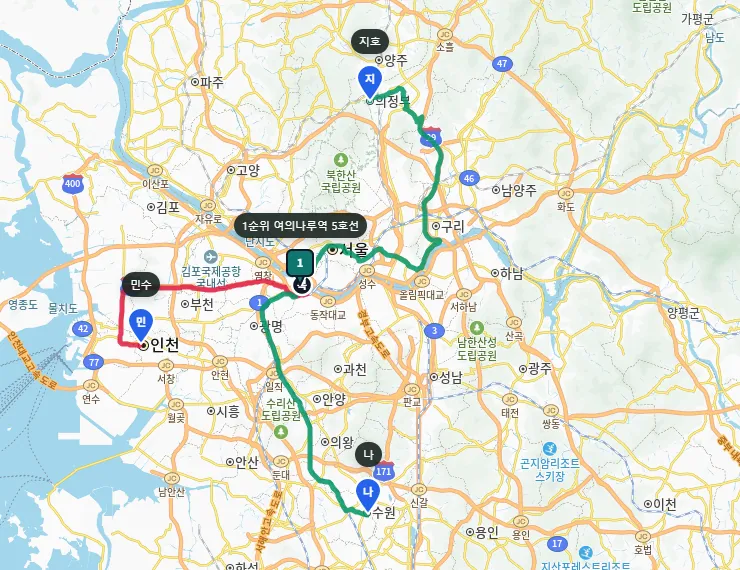
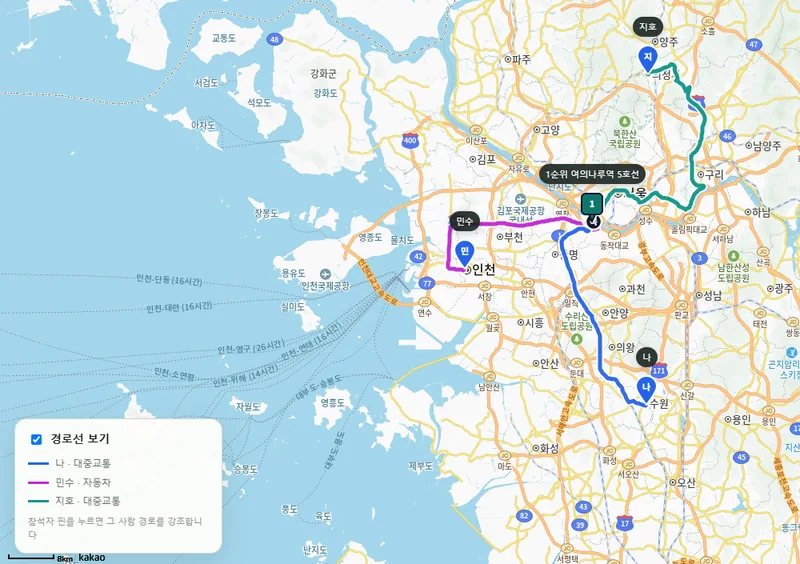
feat(map): 경로선을 사람마다 다른 색으로, 흰 테두리
경로선 색이 이동수단 세 가지뿐이라 대중교통으로 오는 사람이 여럿이면 모두 같은 초록이었고,
카카오 바탕의 도로(주황·빨강)·공원(초록)과도 섞였다 (09-28).

- 색은 사람마다(슬롯 참석자 순서로 고정, 바탕 도로·공원·물과 겹치지 않는 8색), 이동수단은 선 모양(도보만 점선)
- 선 아래 흰 테두리를 깔아 지도 위에서 묻히지 않게
- 범례를 "이름 · 이동수단" 으로, 결과 표의 점 색도 그 사람 선 색과 같게
- 핀 색은 그대로(내 핀·위치 확인 필요 같은 상태 표시). 집결지 무리 구간은 짙은 회색 굵은 점선
- 첫 화면 지도 캡처를 새 색·범례 포함으로 다시 찍음 (800x564, 82KB), 캡션 갱신

diff --git a/frontend/components/RouteLines.tsx b/frontend/components/RouteLines.tsx
@@ -1,44 +1,72 @@
 "use client";
 
-// 참석자별 경로선 (per_participant[].polyline). 색은 이동수단 세 가지뿐이고 사람마다 바꾸지 않는다.
+// 참석자별 경로선 (per_participant[].polyline).
+// 색은 사람마다, 모양은 이동수단마다 다르다 (09-28). 전에는 이동수단 세 가지 색뿐이라 대중교통으로 오는 사람이
+// 여럿이면 모두 같은 초록이었고, 카카오 바탕의 도로(주황·빨강)·공원(초록)과도 섞였다.
 
 import { useEffect } from "react";
 import type { Kakao } from "@/lib/kakao";
 import type { ParticipantResult, RendezvousLeg, Transport } from "@/types/agent";
 
+// 이동수단은 선 모양으로 가른다. color 는 사람 색을 모를 때(집결지 무리 구간 등)만 쓴다.
 // layer: 겹칠 때 위에 올라오는 순서. 자동차 선은 길고 굵어 대중교통·도보 선을 덮기 쉽다
 export const ROUTE_STYLES: Record<Transport, { color: string; label: string; style: string; layer: number }> = {
-  car: { color: "#e11d48", label: "자동차", style: "solid", layer: 1 },
-  transit: { color: "#059669", label: "대중교통", style: "solid", layer: 2 },
-  walk: { color: "#7c3aed", label: "도보", style: "shortdash", layer: 3 },
+  car: { color: "#334155", label: "자동차", style: "solid", layer: 1 },
+  transit: { color: "#334155", label: "대중교통", style: "solid", layer: 2 },
+  walk: { color: "#334155", label: "도보", style: "shortdash", layer: 3 },
 };
+
+// 사람 색. 카카오 바탕의 도로(주황·노랑)·공원(초록)·물(하늘)과 겹치지 않는 색만 쓴다. 앞 셋끼리 가장 멀다
+export const PERSON_COLORS = ["#2563eb", "#c026d3", "#0d9488", "#dc2626", "#7c3aed", "#92400e", "#db2777", "#1e3a8a"];
+
+// 참석자 순서(슬롯 순서)로 색을 고정한다. 후보를 바꿔도 같은 사람은 같은 색이다
+export function personColor(names: string[], name: string): string {
+  const index = names.indexOf(name);
+  return PERSON_COLORS[(index < 0 ? 0 : index) % PERSON_COLORS.length];
+}
 
 interface Props {
   kakao: Kakao;
   map: Kakao;
   rows: ParticipantResult[];
   highlighted: string | null;
+  names?: string[]; // 참석자 순서. 사람 색을 정한다
   // 두 단계 집결의 집결지 → 후보 구간. 여럿이 함께 가는 길이라 굵은 점선으로 구분한다 (09-27)
   legs?: RendezvousLeg[];
 }
 
 export const GROUP_LEG_STYLE = { style: "dash", weight: 7, label: "집결지에서 함께 이동" };
 
-export default function RouteLines({ kakao, map, rows, highlighted, legs = [] }: Props) {
+export default function RouteLines({ kakao, map, rows, highlighted, legs = [], names = [] }: Props) {
   useEffect(() => {
     const lines = rows
       .filter((r) => r.polyline.length > 1)
-      .map((r) => {
+      .flatMap((r) => {
         const s = ROUTE_STYLES[r.transport];
-        return new kakao.maps.Polyline({
+        const path = r.polyline.map(([lng, lat]) => new kakao.maps.LatLng(lat, lng));
+        const on = highlighted === r.name;
+        const dim = Boolean(highlighted) && !on;
+        const weight = on ? 7 : 5;
+        // 흰 테두리를 먼저 깐다. 지도 위 도로색에 묻히지 않게 한다
+        const casing = new kakao.maps.Polyline({
           map,
-          path: r.polyline.map(([lng, lat]) => new kakao.maps.LatLng(lat, lng)),
-          strokeWeight: highlighted === r.name ? 7 : 5,
-          strokeColor: s.color,
-          strokeOpacity: highlighted && highlighted !== r.name ? 0.35 : 0.85,
-          strokeStyle: s.style,
-          zIndex: highlighted === r.name ? 10 : s.layer,
+          path,
+          strokeWeight: weight + 4,
+          strokeColor: "#ffffff",
+          strokeOpacity: dim ? 0.3 : 0.9,
+          strokeStyle: "solid",
+          zIndex: on ? 9 : s.layer,
         });
+        const line = new kakao.maps.Polyline({
+          map,
+          path,
+          strokeWeight: weight,
+          strokeColor: personColor(names, r.name),
+          strokeOpacity: dim ? 0.35 : 0.95,
+          strokeStyle: s.style,
+          zIndex: on ? 10 : s.layer,
+        });
+        return [casing, line];
       });
     const groupLines = legs
       .filter((leg) => leg.polyline.length > 1)
@@ -55,7 +83,7 @@ export default function RouteLines({ kakao, map, rows, highlighted, legs = [] }:
           }),
       );
     return () => [...lines, ...groupLines].forEach((line) => line.setMap(null));
-  }, [kakao, map, rows, highlighted, legs]);
+  }, [kakao, map, rows, highlighted, legs, names]);
 
   return null;
 }

diff --git a/frontend/components/MapView.tsx b/frontend/components/MapView.tsx
@@ -7,7 +7,7 @@ import { loadKakao, nameLabel, pinImage, type Kakao, type PinStyle } from "@/lib
 import type { AgentResponse, CandidateKind, ParticipantResult } from "@/types/agent";
 import ParticipantPins, { PIN_COLORS, type ParticipantPin, type Viewer } from "./ParticipantPins";
 import PinPicker from "./PinPicker";
-import RouteLines, { GROUP_LEG_STYLE, ROUTE_STYLES } from "./RouteLines";
+import RouteLines, { GROUP_LEG_STYLE, ROUTE_STYLES, personColor } from "./RouteLines";
 
 const DEFAULT_CENTER = { lat: 36.35, lng: 127.8 }; // 국토 중앙쯤. 핀이 생기면 bounds 로 옮긴다
 const ALL_ROUTES_MAX = 4;
@@ -101,6 +101,12 @@ export default function MapView({ response, participantPins, viewer, selectedRan
     if (showRoutes) return drawable;
     return selected ? drawable.filter((r) => r.name === selected) : [];
   }, [rankRows, selected, showRoutes]);
+
+  // 사람 색은 슬롯의 참석자 순서로 정한다. 지도·범례·결과 표가 같은 순서를 쓴다
+  const participantNames = useMemo(
+    () => (response?.slots?.participants ?? []).map((p) => p.name),
+    [response],
+  );
 
   // 두 단계 집결의 무리 구간. 선택한 후보 것만, 경로선을 켰을 때만 그린다
   const groupLegs = useMemo(() => {
@@ -259,7 +265,14 @@ export default function MapView({ response, participantPins, viewer, selectedRan
             onSelect={onSelectParticipant}
             onMove={onMove}
           />
-          <RouteLines kakao={kakao} map={map} rows={visibleRows} highlighted={selected} legs={groupLegs} />
+          <RouteLines
+            kakao={kakao}
+            map={map}
+            rows={visibleRows}
+            highlighted={selected}
+            legs={groupLegs}
+            names={participantNames}
+          />
           <PinPicker
             kakao={kakao}
             map={map}
@@ -284,15 +297,21 @@ export default function MapView({ response, participantPins, viewer, selectedRan
             경로선 보기
           </label>
           <ul className="legend">
-            {Object.values(ROUTE_STYLES).map((s) => (
-              <li key={s.label}>
-                <span
-                  className="legend-line"
-                  style={{ borderTopColor: s.color, borderTopStyle: s.style === "solid" ? "solid" : "dashed" }}
-                />
-                {s.label}
-              </li>
-            ))}
+            {/* 사람마다 색, 이동수단은 선 모양(도보만 점선) */}
+            {rankRows
+              .filter((r) => !r.via_pickup)
+              .map((r) => (
+                <li key={r.name}>
+                  <span
+                    className="legend-line"
+                    style={{
+                      borderTopColor: personColor(participantNames, r.name),
+                      borderTopStyle: ROUTE_STYLES[r.transport].style === "solid" ? "solid" : "dashed",
+                    }}
+                  />
+                  {r.name} · {ROUTE_STYLES[r.transport].label}
+                </li>
+              ))}
             {groupLegs.length > 0 && (
               <li>
                 <span className="legend-line legend-line-group" style={{ borderTopStyle: "dashed" }} />

diff --git a/frontend/app/page.tsx b/frontend/app/page.tsx
@@ -80,14 +80,13 @@ function Intro({ signedIn }: { signedIn: boolean }) {
         <figure className="intro-map">
           <img
             src="/demo-map.webp"
-            width={740}
-            height={570}
-            alt="예시 지도: 수원·인천·의정부에서 출발하는 세 사람의 핀과 이동수단별 경로선, 1순위 집결지 여의나루역"
+            width={800}
+            height={564}
+            alt="예시 지도: 수원·인천·의정부에서 출발하는 세 사람의 핀과 사람별 색 경로선, 1순위 집결지 여의나루역"
             loading="lazy"
           />
           <figcaption className="muted">
-            결과 화면에는 이렇게 참석자 핀과 이동수단별 경로선(빨강 자동차, 초록 대중교통), 1순위 집결지가 찍힙니다.
-            지도 © Kakao
+            결과 화면에는 이렇게 참석자 핀과 사람마다 다른 색의 경로선, 1순위 집결지가 찍힙니다. 지도 © Kakao
           </figcaption>
         </figure>
       )}

diff --git a/frontend/components/ResultTable.tsx b/frontend/components/ResultTable.tsx
@@ -7,7 +7,7 @@
 import { useState } from "react";
 import type { Participant, Result } from "@/types/agent";
 import { CANDIDATE_STYLES } from "./MapView";
-import { ROUTE_STYLES } from "./RouteLines";
+import { ROUTE_STYLES, personColor } from "./RouteLines";
 
 interface Props {
   result: Result;
@@ -106,7 +106,7 @@ export default function ResultTable({
                     <tr key={r.name}>
                       <td>{r.name}</td>
                       <td>
-                        <span className="dot" style={{ background: ROUTE_STYLES[r.transport].color }} />
+                        <span className="dot" style={{ background: personColor(participants.map((x) => x.name), r.name) }} />
                         {ROUTE_STYLES[r.transport].label}
                         {r.transfer_count !== null && r.transport === "transit" && ` · 환승 ${r.transfer_count}`}
                       </td>
